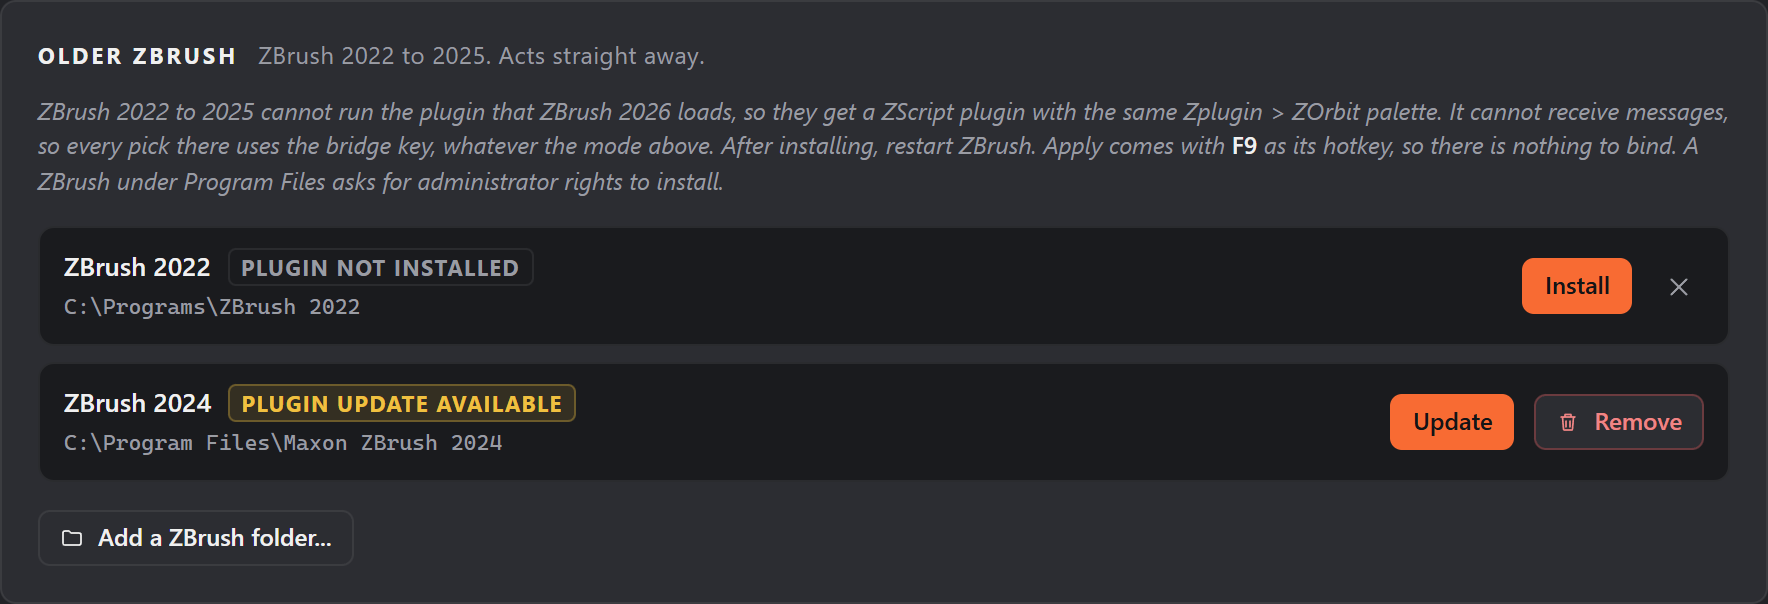
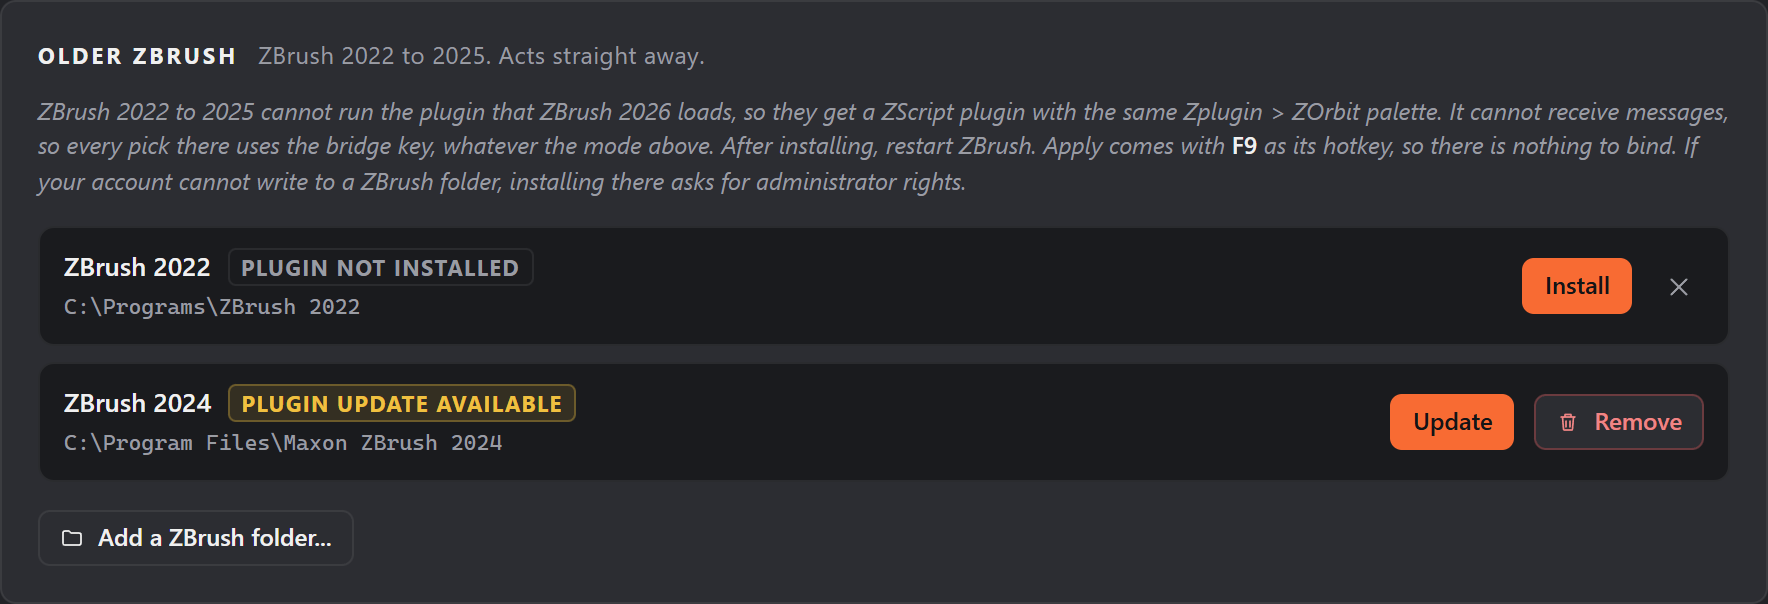
Studio and docs: a ZBrush under Program Files asks only when the folder needs it (#171)
The ZBrush 2022 install on the test VM lets every account write to its folder, so Install copied the
plugin with no prompt (#23). Studio's Remove dialog and Older ZBrush note, and the docs, said it always asks.

Changed region(s): [[0.0, 0.2682, 0.56, 0.3278], [0.9333, 0.2384, 0.9644, 0.2682]]

diff --git a/zorbit/studio_ui/app.js b/zorbit/studio_ui/app.js
@@ -4183,7 +4183,7 @@ function legacyRows(box, { refresh, extra } = {}) {
       if (rm) rm.onclick = async () => {
         const ok = await modal({ title: `Remove the plugin from ${z.name}?`,
           body: [h('p', null, 'This deletes the ZOrbit plugin files from this ZBrush install:'), h('p', { class: 'modal-path mono' }, z.path),
-            /program files/i.test(z.path) ? h('p', null, 'This folder is under Program Files, so Windows asks you to approve the removal.') : null],
+            /program files/i.test(z.path) ? h('p', null, 'This folder is under Program Files. If your account cannot change it, Windows asks you to approve the removal.') : null],
           actions: [{ text: 'Cancel', value: false, focus: true }, { text: 'Remove', value: true, kind: 'danger' }] });
         if (ok) act('remove_zscript_bridge', z.path, rm, rowBtns, 'Removing...', 4000, 'Removing... approve the prompt if Windows asks')();
       };
@@ -4437,7 +4437,7 @@ function buildSettingsScreen(root) {
           ? ['After installing, restart ZBrush. Apply comes with ', h('b', null, 'F9'), ' as its hotkey, so there is nothing to bind.']
           : ['After installing, restart ZBrush, Ctrl+Alt+click Zplugin > ZOrbit > Apply, press ', h('b', null, zkey), ' and choose Preferences > Hotkeys > Store. (Only F9 works without this step.)'];
         znote.hidden = !zCount;
-        znote.replaceChildren('ZBrush 2022 to 2025 cannot run the plugin that ZBrush 2026 loads, so they get a ZScript plugin with the same Zplugin > ZOrbit palette. It cannot receive messages, so every pick there uses the bridge key, whatever the mode above. ', ...bind, ' A ZBrush under Program Files asks for administrator rights to install.');
+        znote.replaceChildren('ZBrush 2022 to 2025 cannot run the plugin that ZBrush 2026 loads, so they get a ZScript plugin with the same Zplugin > ZOrbit palette. It cannot receive messages, so every pick there uses the bridge key, whatever the mode above. ', ...bind, ' If your account cannot write to a ZBrush folder, installing there asks for administrator rights.');
       };
       let zgen = 0;                                              // a slower earlier listing must not replace a newer one
       const zpaint = async () => {

diff --git a/docs/install.md b/docs/install.md
@@ -45,7 +45,7 @@ In ZBrush 2026 the palette is now **Zplugin > ZOrbit**. If you bound F9 to the o
 These versions load plugins only from their own `ZStartup\ZPlugs64` folder, so Studio puts the plugin there:
 
 1. Open **ZOrbit Studio** and go to the **Setup** screen (Alt+6). Step 1 lists the 2022 to 2025 versions it found. If yours is missing, use **Add a ZBrush folder**. The same list, with the same **Install** button, is in **Settings > Older ZBrush** in [Full mode](studio.md#simple-and-full-mode).
-2. Click **Install**. A ZBrush under Program Files asks for administrator rights once (the prompt runs ZOrbit's own program as administrator).
+2. Click **Install**. If your account cannot write to that ZBrush's folder, Windows asks for administrator rights once (the prompt runs ZOrbit's own program as administrator). On a standard Windows account, that means an administrator's password. This can happen under Program Files, but not always: the ZBrush 2022 install we tested lets every account write to its folder, so it asked nothing.
 3. Restart that ZBrush.
 
 The plugin has no listener window, so every pick in these versions goes through the bridge key, F9. When ZBrush loads the plugin it binds F9 to **Zplugin > ZOrbit > Apply** if that button has no hotkey yet, and keeps a key you stored for it yourself. That is verified in ZBrush 2022, 2023 and 2025; in 2024, check **Zplugin > ZOrbit > Apply** and bind F9 by hand if it is empty. If you change the bridge key in Studio (a bare F-key other than F10), bind the new key by hand in each version: Ctrl+Alt+click **Apply**, press the key, then **Preferences > Hotkeys > Store**. When a new version of ZOrbit has a newer plugin, **Settings** shows a badge and the row says **Plugin update available**.
@@ -92,6 +92,6 @@ It removes:
 - the **ZOrbit Studio** and **ZOrbit Browser** Start menu shortcuts, and the desktop icon if you made one,
 - the plugin folder's entry in your `ZBRUSH_PLUGIN_PATH` user variable,
 - `%APPDATA%\ZOrbit\launch.json`,
-- the plugin from every ZBrush 2022 to 2025 that Studio's **Setup** lists: the ones Windows knows about, the ones ZBrush recorded and the ones you added by hand. A ZBrush under `C:\Program Files` asks for administrator rights once. If a folder could not be cleaned, the uninstaller lists it, and you delete `ZOrbitBridge.zsc` and the `ZOrbitData` folder from that ZBrush's `ZStartup\ZPlugs64` yourself.
+- the plugin from every ZBrush 2022 to 2025 that Studio's **Setup** lists: the ones Windows knows about, the ones ZBrush recorded and the ones you added by hand. A ZBrush folder your account cannot write to asks for administrator rights once. If a folder could not be cleaned, the uninstaller lists it, and you delete `ZOrbitBridge.zsc` and the `ZOrbitData` folder from that ZBrush's `ZStartup\ZPlugs64` yourself.
 
 It leaves your profiles (menus, settings, tags and learned auto slots, in `%APPDATA%\ZOrbit\profiles\`) and your logs. They are not part of the program. They live in `%APPDATA%\ZOrbit` and `%LOCALAPPDATA%\ZOrbit`; delete those folders if you want no trace.

diff --git a/docs/bridge.md b/docs/bridge.md
@@ -51,7 +51,7 @@ Failures the plugin reports (a brush that is not installed, a button path that d
 
 ### ZBrush 2022 to 2025
 
-These versions have no Python API, so they get a ZScript plugin with the same palette. Studio installs it (the steps are in [Install and uninstall](install.md#zbrush-2022-to-2025)): **Setup** step 1 (and **Settings > Older ZBrush** in Full mode) lists the 2022 to 2025 versions it found, with **Install**, **Update** and **Remove** for each, and **Add a ZBrush folder** for one it missed (a folder you added can be forgotten again with the x next to it). The plugin goes into that ZBrush's `ZStartup\ZPlugs64` (the only place these versions load plugins from), together with a `ZOrbitData` folder. A ZBrush under Program Files asks for administrator rights: the row says "approve the prompt" while Windows waits for you, for up to five minutes. The elevated step checks that the destination is a ZBrush plugin folder. It ignores the staging folder and builds the plugin files itself, but it is ZOrbit's own program running from your user folder, so approve the prompt only on a PC you trust.
+These versions have no Python API, so they get a ZScript plugin with the same palette. Studio installs it (the steps are in [Install and uninstall](install.md#zbrush-2022-to-2025)): **Setup** step 1 (and **Settings > Older ZBrush** in Full mode) lists the 2022 to 2025 versions it found, with **Install**, **Update** and **Remove** for each, and **Add a ZBrush folder** for one it missed (a folder you added can be forgotten again with the x next to it). The plugin goes into that ZBrush's `ZStartup\ZPlugs64` (the only place these versions load plugins from), together with a `ZOrbitData` folder. If your account cannot write to that ZBrush's folder, which can happen under Program Files, Windows asks for administrator rights: the row says "approve the prompt" while Windows waits for you, for up to five minutes. The elevated step checks that the destination is a ZBrush plugin folder. It ignores the staging folder and builds the plugin files itself, but it is ZOrbit's own program running from your user folder, so approve the prompt only on a PC you trust.
 
 ![Settings > Older ZBrush (Full mode): a row for ZBrush 2022 marked Plugin not installed with an Install button, a row for ZBrush 2024 marked Plugin update available with Update and Remove buttons, and Add a ZBrush folder](images/settings-older-zbrush.png)
 

diff --git a/docs/building.md b/docs/building.md
@@ -56,7 +56,7 @@ It starts ZBrush twice with a script and closes it after each, with no clicks. T
 
 ## Test the plugin install under Program Files
 
-ZBrush 2022 to 2025 load plugins only from their own `ZStartup\ZPlugs64` folder, which is usually under Program Files. There Studio's **Install**, **Update** and **Remove** cannot copy the files as you, so ZOrbit runs a helper as administrator instead. `tools\test_uac_install.py` tests that path without a real ZBrush:
+ZBrush 2022 to 2025 load plugins only from their own `ZStartup\ZPlugs64` folder, which is usually under Program Files. When your account cannot write there, Studio's **Install**, **Update** and **Remove** cannot copy the files as you, so ZOrbit runs a helper as administrator instead. A real ZBrush may never take that path: the ZBrush 2022 install we tested lets every account write to its folder. `tools\test_uac_install.py` tests the path without a real ZBrush:
 
 ```powershell
 python tools\test_uac_install.py

diff --git a/CHANGELOG.md b/CHANGELOG.md
@@ -8,6 +8,7 @@ All notable changes to this project are listed here. The format follows
 
 ### Fixed
 
+- Studio and the docs said a ZBrush under Program Files always asks for administrator rights. It only asks when your account cannot write to that folder, and the ZBrush 2022 install we tested lets every account write there.
 - The path field of a **Project** slot showed only about 9 characters of the path, because it shared its row with the two browse buttons. On **Project**, **Tool** and **Capture** slots the buttons now sit under the field, which has the panel's whole width.
 
 ## [0.19.0] - 2026-11-05
